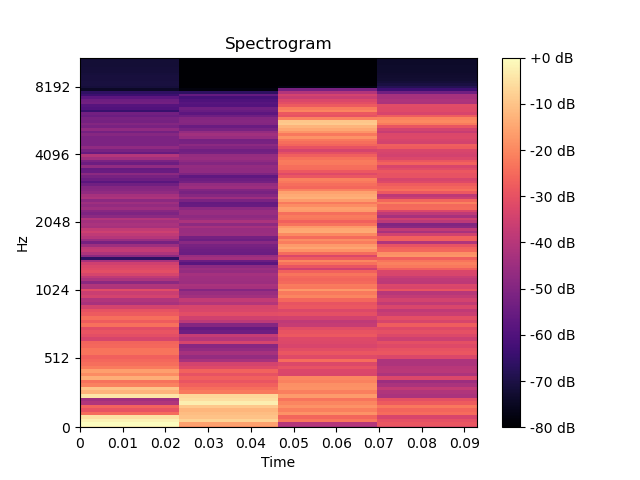
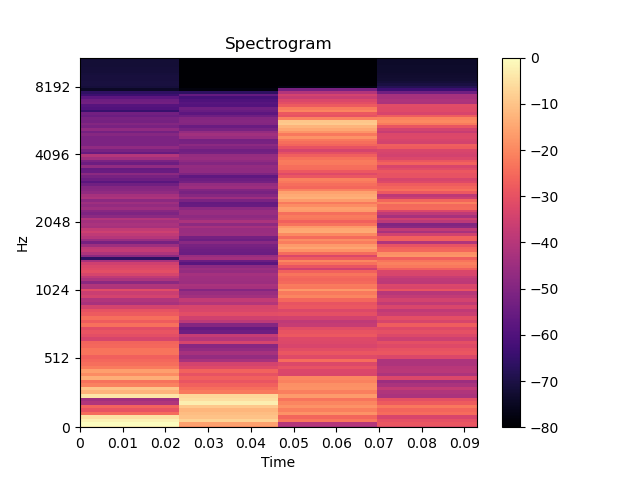
remove db from spectrogram/cepstrum coeff plot

diff --git a/data_processing.py b/data_processing.py
@@ -135,7 +135,6 @@ def get_feature(sound_path: str, feature_enum: Feature, plot_result: bool):
     result = None
     title = ""
 
-
     if feature_enum == Feature.Cepstrum:
         result = librosa.feature.mfcc(y=y, sr=sr, n_fft=512)
         title = "Cepstrum Features"
@@ -147,7 +146,7 @@ def get_feature(sound_path: str, feature_enum: Feature, plot_result: bool):
     if plot_result:
         fig, ax = plt.subplots()
         img = librosa.display.specshow(result, x_axis='time', y_axis='mel', ax=ax, sr=sr)
-        fig.colorbar(img, ax=ax, format="%+2.f dB")
+        fig.colorbar(img, ax=ax)
         ax.set(title=title)
         plt.savefig(os.path.join(image_path, title))
         plt.show()
